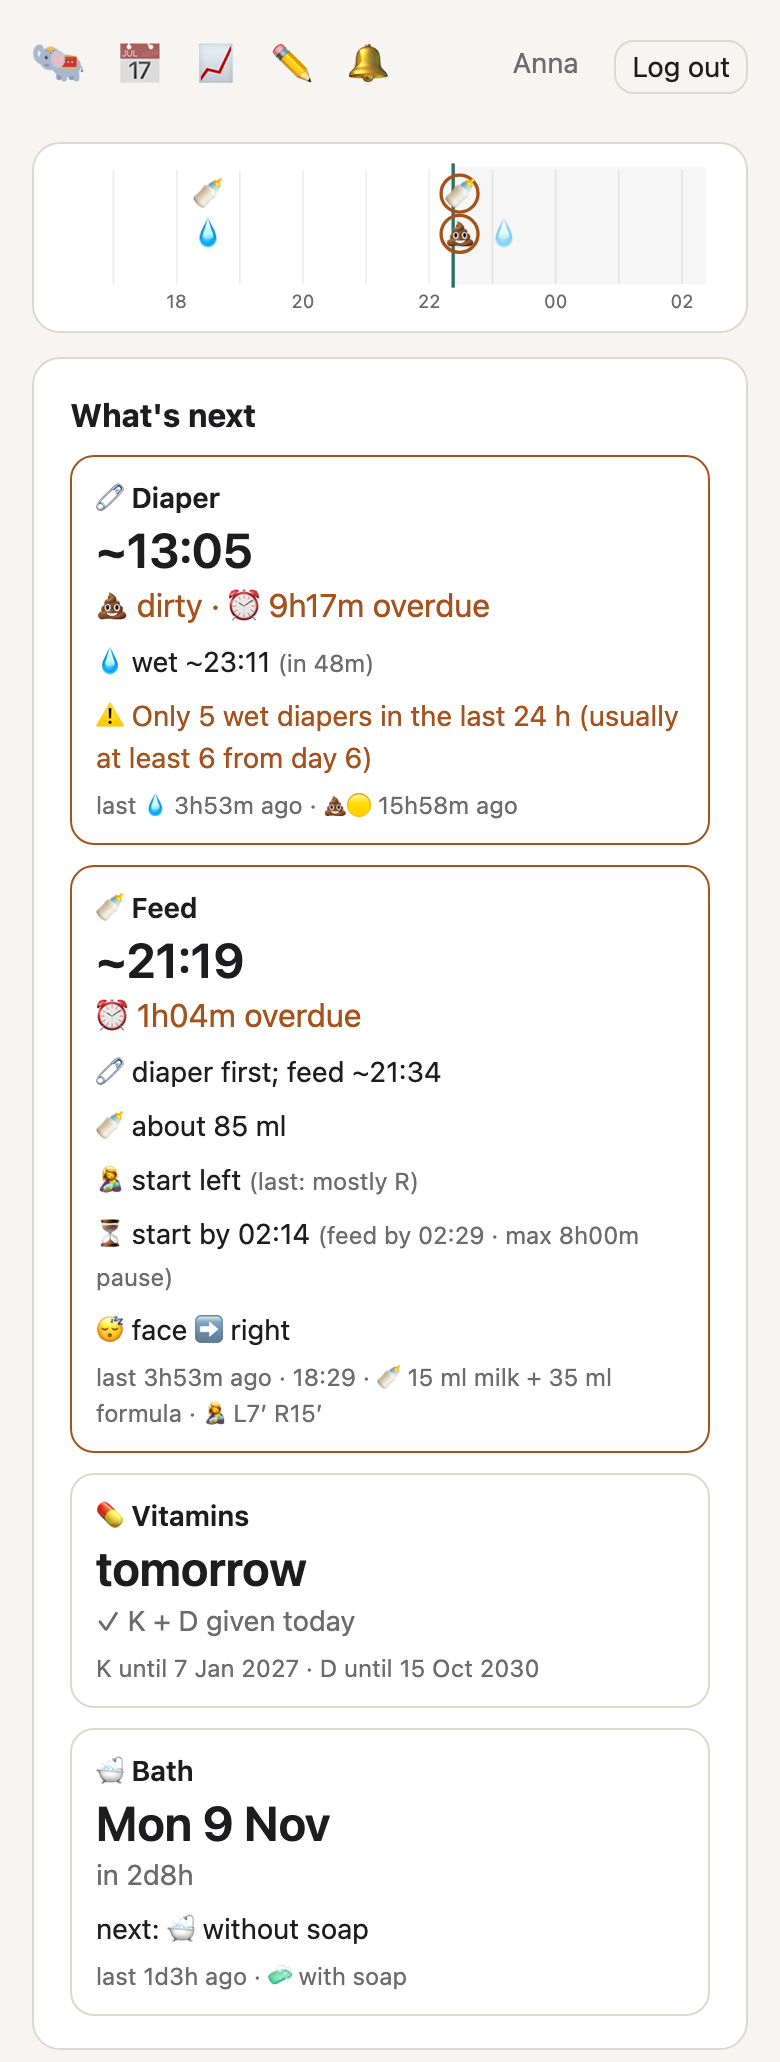
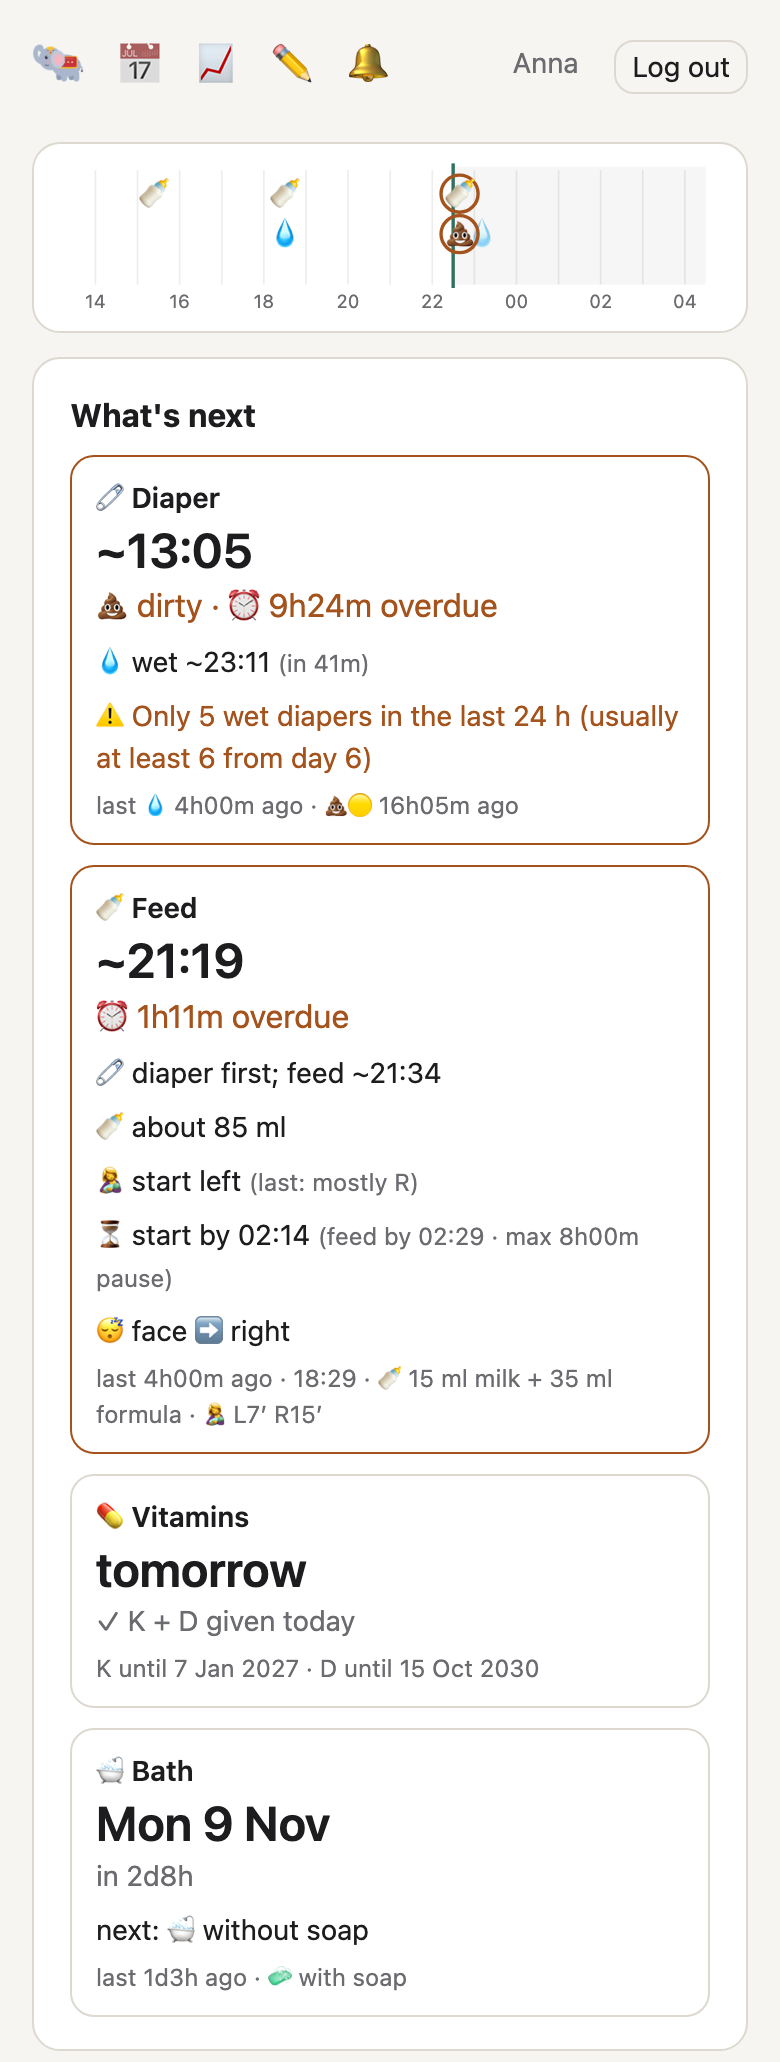
Timeline: start time, responsive, denser

diff --git a/static/app.css b/static/app.css
@@ -36,4 +36,4 @@ nav button{padding:2px 8px}.swatch{vertical-align:-1px}.hollow{fill:var(--card)}
 @keyframes ptr-spin{from{transform:translateY(66px) rotate(0)}to{transform:translateY(66px) rotate(360deg)}}
 .hist div{margin:1px 0}.hist .add{color:var(--add);background:var(--add-bg);border-radius:4px;padding:0 4px}.hist .del{color:var(--del);background:var(--del-bg);border-radius:4px;padding:0 4px}.hist s.del{text-decoration:line-through}.hist .att{color:var(--warn)}.hist .note{color:var(--mut)}
 h3.section{font-size:13px;font-weight:600;color:var(--mut);text-transform:uppercase;letter-spacing:.04em;margin:14px 0 2px}h3.section:first-of-type{margin-top:6px}
-.timeline{padding:8px 10px}.timeline svg{display:block;max-width:560px;margin:0 auto}.tl .future{fill:currentColor;opacity:.04}.tl .hour{stroke:currentColor;stroke-opacity:.08}.tl .now{stroke:var(--acc);stroke-width:2}.tl text.emo{font-size:18px}.tl .ring{fill:none;stroke:var(--warn);stroke-width:2}
+.timeline{padding:8px 10px}.timeline svg{display:block}.tl-m,.tl-l{display:none!important}@media (min-width:520px){.tl-s{display:none!important}.tl-m{display:block!important}}@media (min-width:700px){.tl-m{display:none!important}.tl-l{display:block!important}}.tl .future{fill:currentColor;opacity:.04}.tl .hour{stroke:currentColor;stroke-opacity:.08}.tl .now{stroke:var(--acc);stroke-width:2}.tl text.emo{font-size:18px}.tl .ring{fill:none;stroke:var(--warn);stroke-width:2}

diff --git a/src/web.rs b/src/web.rs
@@ -191,20 +191,36 @@ fn sleep_line(v: &Value) -> String {
     format!(r#"<div class="side">😴 face {} {}{assumed}</div>"#, side_arrow(next), esc(next))
 }
 
-/// The timeline above "what's next": how far back and ahead it shows.
-const TL_PAST: i64 = 6 * 3600;
-const TL_FUTURE: i64 = 4 * 3600;
+/// The timeline above "what's next": how far back it can show (the widest).
+const TL_PAST: i64 = 18 * 3600;
 
-/// A strip with the last hours' entries and the next hours' expectations
-/// as emojis on three lanes (feeds, diapers, the rest): logged ones solid,
-/// expected ones faded, overdue ones just after "now" with an orange ring.
+/// The timeline in three widths, the stylesheet showing the one that fits:
+/// (hours back, hours ahead, class). The same space per hour in each.
+const TL_SIZES: [(i64, i64, &str); 3] = [(9, 6, "tl-s"), (14, 9, "tl-m"), (18, 12, "tl-l")];
+const TL_UNITS_PER_HOUR: f64 = 25.0;
+
 fn timeline(clock: &crate::time::Clock, entries: &[en::Entry], s: &Value, now: i64) -> String {
-    let (w, h, l, r) = (400.0, 92.0, 12.0, 12.0);
-    let (from, to) = (now - TL_PAST, now + TL_FUTURE);
+    let svgs: String = TL_SIZES.iter().map(|(back, ahead, class)| timeline_svg(clock, entries, s, now, back * 3600, ahead * 3600, class)).collect();
+    format!(r#"<div class="card timeline">{svgs}</div>"#)
+}
+
+/// A strip with the last hours' entries and the next hours' expectations as
+/// emojis on three lanes (feeds, diapers, the rest): logged ones solid,
+/// expected ones faded, overdue ones just after "now" with an orange ring.
+/// The expected feed is when to start (diaper first).
+fn timeline_svg(clock: &crate::time::Clock, entries: &[en::Entry], s: &Value, now: i64, past: i64, future: i64, class: &str) -> String {
+    let (l, r) = (12.0, 12.0);
+    let w = l + r + (past + future) as f64 / 3600.0 * TL_UNITS_PER_HOUR;
+    let h = 92.0;
+    let (from, to) = (now - past, now + future);
     let x = |t: i64| l + (t - from) as f64 / (to - from) as f64 * (w - l - r);
     let lanes = [26.0, 50.0, 74.0]; // feeds, diapers, other (text baselines)
     let hm = |t: i64| clock.zoned(t).strftime("%H:%M").to_string();
-    let mut svg = format!(r#"<svg class="tl" viewBox="0 0 {w} {h}" width="100%" role="img" aria-label="The last 6 hours and the next 4">"#);
+    let mut svg = format!(
+        r#"<svg class="tl {class}" viewBox="0 0 {w:.0} {h}" width="100%" role="img" aria-label="The last {} hours and the next {}">"#,
+        past / 3600,
+        future / 3600
+    );
     svg += &format!(r#"<rect x="{:.1}" y="4" width="{:.1}" height="{:.1}" class="future"/>"#, x(now), x(to) - x(now), h - 22.0);
     // Hour lines, labelled every two hours.
     let mut hr = from - from.rem_euclid(3600) + 3600;
@@ -229,8 +245,7 @@ fn timeline(clock: &crate::time::Clock, entries: &[en::Entry], s: &Value, now: i
         );
     };
     for e in entries.iter().filter(|e| e.at >= from && e.at <= now) {
-        let what = entry_summary(e);
-        let title = format!("{} {what}", hm(e.at));
+        let title = format!("{} {}", hm(e.at), entry_summary(e));
         if e.is_feed() {
             put(0, "🍼", e.at, false, false, title.clone());
         }
@@ -250,8 +265,8 @@ fn timeline(clock: &crate::time::Clock, entries: &[en::Entry], s: &Value, now: i
         }
     }
     // What's expected: overdue ones just after now, with a ring.
-    let soon = now + (TL_FUTURE / 40);
-    let mut expect = |lane: usize, emoji: &str, at: Option<i64>, label: &str| {
+    let soon = now + future / 40;
+    let mut expect = |lane: usize, emoji: &str, at: Option<i64>, label: String| {
         let Some(t) = at else { return };
         if t > to {
             return;
@@ -261,16 +276,22 @@ fn timeline(clock: &crate::time::Clock, entries: &[en::Entry], s: &Value, now: i
             format!("{} {label}{}", hm(t), if overdue { " (overdue)" } else { " (expected)" }));
     };
     let at = |v: &Value| v["at"].as_str().and_then(|a| clock.parse(a, now).ok());
-    expect(0, "🍼", at(&s["next_feed_estimate"]), "feed");
-    expect(1, "💧", at(&s["next_wet_diaper_estimate"]), "wet diaper");
-    expect(1, "💩", at(&s["next_dirty_diaper_estimate"]), "dirty diaper");
+    // The feed: when to start (diaper first), if there is a preparation time.
+    match (at(&s["next_feed_start"]), s["next_feed_start"]["feed_at"].as_str()) {
+        (Some(start), Some(feed)) if s["next_feed_start"]["prep"] != "0m" && feed.len() >= 16 => {
+            expect(0, "🍼", Some(start), format!("start (feed ~{})", &feed[11..16]))
+        }
+        _ => expect(0, "🍼", at(&s["next_feed_estimate"]), "feed".into()),
+    }
+    expect(1, "💧", at(&s["next_wet_diaper_estimate"]), "wet diaper".into());
+    expect(1, "💩", at(&s["next_dirty_diaper_estimate"]), "dirty diaper".into());
     if s["vitamins"]["to_give_today"].as_array().is_some_and(|a| !a.is_empty()) {
-        expect(2, "💊", s["vitamins"]["remind_at"].as_str().and_then(|a| clock.parse(a, now).ok()), "vitamins");
+        expect(2, "💊", s["vitamins"]["remind_at"].as_str().and_then(|a| clock.parse(a, now).ok()), "vitamins".into());
     } else if s["bath"]["due"]["at"].is_string() && !s["bath"]["due"]["never"].as_bool().unwrap_or(false) {
-        expect(2, "🛁", at(&s["bath"]["due"]), "bath");
+        expect(2, "🛁", at(&s["bath"]["due"]), "bath".into());
     }
     svg += "</svg>";
-    format!(r#"<div class="card timeline">{svg}</div>"#)
+    svg
 }
 
 /// One diaper tile: the earliest expected diaper (wet or dirty) as the
@@ -1425,12 +1446,20 @@ mod tests {
                        e("2025-11-07 10:30", json!({"bottle_formula_ml": 80, "wet": true, "dirty": true})),
                        e("2025-11-07 12:00", json!({"vitamin_d": true, "vitamin_k": true}))];
         let s = json!({"next_feed_estimate": {"at": "2025-11-07 13:30"}, "next_wet_diaper_estimate": {"at": "2025-11-07 15:00"}});
-        let html = timeline(&clock, &entries, &s, now);
+        let html = timeline_svg(&clock, &entries, &s, now, 6 * 3600, 4 * 3600, "tl-s");
         assert_eq!(html.matches(">🍼</text>").count(), 2, "one logged feed in the window, one expected: {html}");
         assert!(html.contains("10:30 🍼 80 ml formula") && html.contains("💩") && html.contains("💊"));
         assert!(html.contains("13:30 feed (overdue)") && html.contains(r#"class="ring""#), "overdue feed ringed");
         assert!(html.contains("15:00 wet diaper (expected)") && html.contains(r#"opacity=".45""#), "expected wet diaper faded");
         assert!(html.contains(">10<") && html.contains(">16<"), "hour labels");
+        // With a preparation time the expected feed is the start; three widths.
+        let mut s2 = s.clone();
+        s2["next_feed_estimate"] = json!({"at": "2025-11-07 15:30"});
+        s2["next_feed_start"] = json!({"at": "2025-11-07 15:15", "feed_at": "2025-11-07 15:30", "prep": "15m"});
+        let all = timeline(&clock, &entries, &s2, now);
+        assert!(all.contains("15:15 start (feed ~15:30) (expected)"), "{all}");
+        assert!(all.contains("tl-s") && all.contains("tl-m") && all.contains("tl-l"));
+        assert!(all.contains(">22<") && all.contains(">08<"), "the wide one reaches back 18 hours");
     }
 
     #[test]
